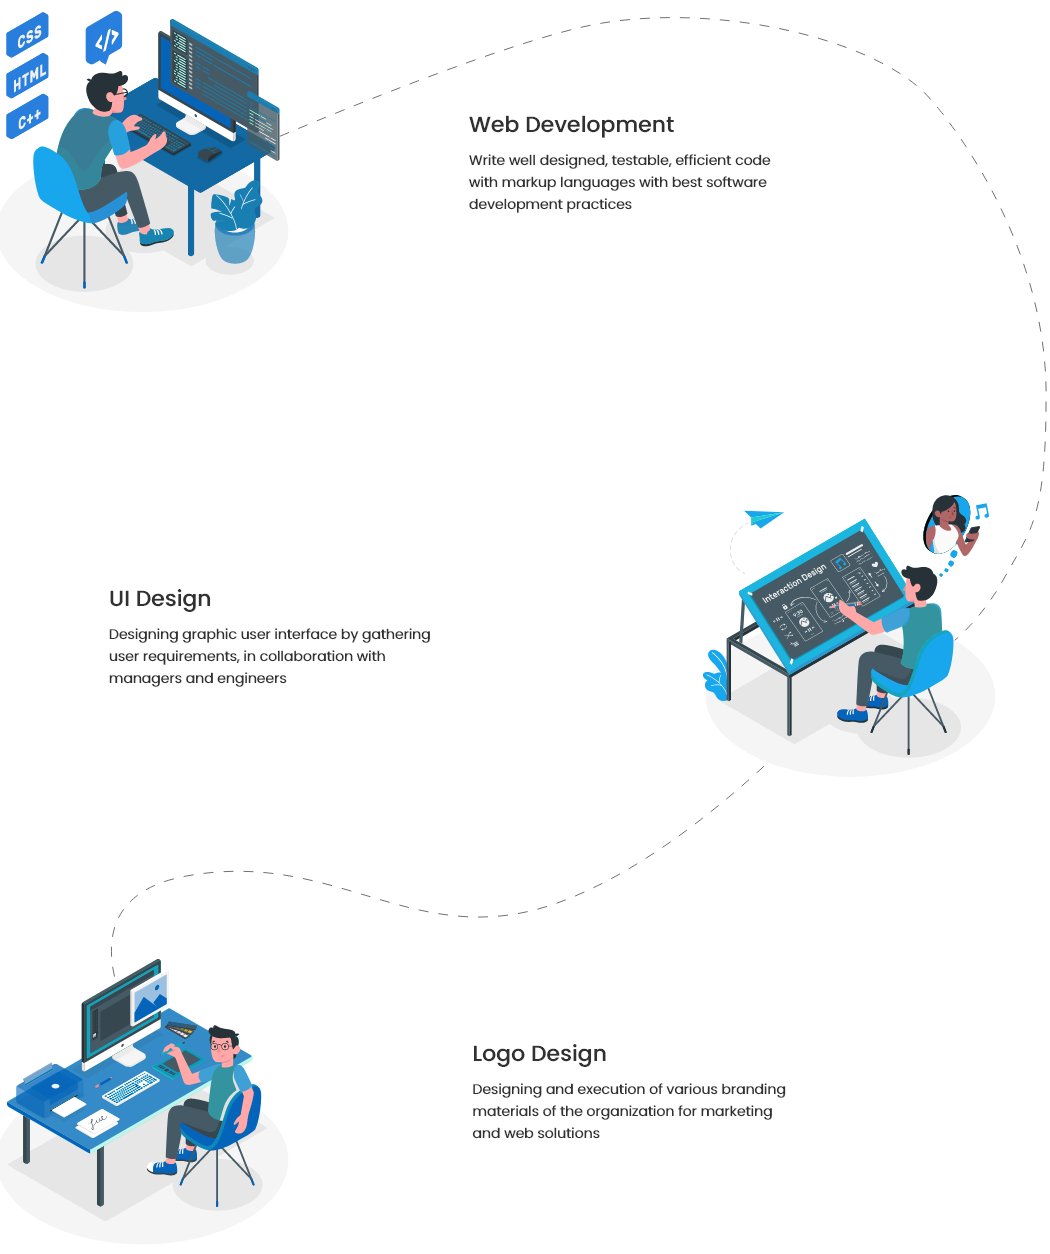
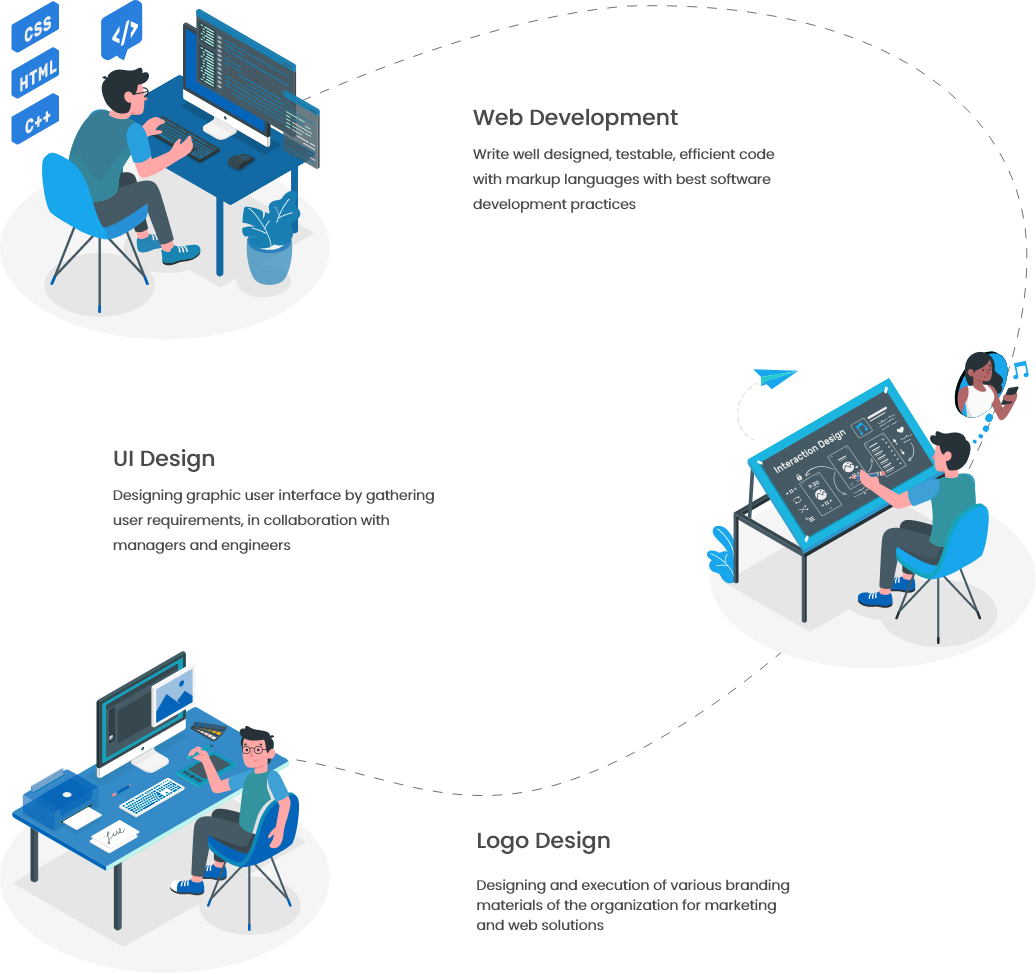
upgraded code

diff --git a/src/app/app.component.html b/src/app/app.component.html
@@ -1,6 +1,6 @@
 <nav id="navbar" class="mx-auto navbar navbar-expand-md navbar-dark bg-dark fixed-top">
   <!-- Navbar content -->
-  <a href="#about" class="navbar-brand">Hemanth Reddy</a>
+  <a href="#about" class="navbar-brand"><img src="../assets/logo.png"></a>
   <button type="button" class="navbar-toggler" data-toggle="collapse" data-target="#navbarCollapse">
       <span><img class="menu" src="../assets/menu2.png"></span>
   </button>
@@ -24,10 +24,10 @@
 <div id="about" class="container card aboutme">
     <div class="col-12">
         <div class="intro">
-            <h1 class="name text-center">Hemanth Reddy C R</h1>
-            <h3 class="designation text-center my-2">UI UX Developer</h3>
+            <h1 class="name text-center noselect">Hemanth Reddy C R</h1>
+            <h3 class="designation text-center my-2 noselect">UI UX Developer</h3>
     </div>
-        <p class="aboutMeContent my-3">I am an User Interface and User Experience Developer based on Benguluru. I am experienced in User Experience Designing, Graphic Designing, Web designing and Web Development.</p>
+        <p class="aboutMeContent my-3 noselect">I am an User Interface and User Experience Developer based on Benguluru. I am experienced in User Experience Designing, Graphic Designing, Web designing and Web Development.</p>
     </div>
 </div>
 <div class="col-xs-10 col-sm-10 col-md-5 col-lg-4 col-xl-4 mx-auto">
@@ -35,18 +35,57 @@
 </div>
 <!------------------------------ what I Do ---------------------------------->
 <p id="whatIDo" class="heading my-5 col-2 text-center mx-auto">What I Do</p>
-<div class="container card whatIDo">
-<img class="img-fluid img-responsive" src="../assets/whaticando.png">
+<div class="container">
+    <div class="row">
+            <div class="col-xs-12 col-sm-12 col-md-12 col-lg-2 col-xl-2 mx-auto">
+                <img class="img-responsive" src="../assets/development.png">
+            </div>
+            <div class="col-xs-12 col-sm-12 col-md-12 col-lg-6 col-xl-6">
+                <div class="card-body mx-auto">
+                    <div class="h4">Web Development</div>
+                     <h6 class="category noselect">Write well designed, testable, efficient code
+                        with markup languages with best software
+                        development practices</h6>
+                  </div>
+            </div>
+    </div>
+    <div class="row my-5">
+        <div class="col-xs-12 col-sm-12 col-md-12 col-lg-6 col-xl-6 mt-5 mx-auto">
+            <div class="card-body mx-auto">
+                <div class="h4">User Interface Design</div>
+                 <h6 class="category noselect">Designing graphic user interface by gathering
+                    user requirements, in collaboration with
+                    managers and engineers</h6>
+              </div>
+        </div>
+        <div class="col-xs-12 col-sm-12 col-md-12 col-lg-2 col-xl-2 mx-auto">
+            <img class="img-responsive" src="../assets/uidesign.png">
+        </div>
+    </div>
+    <div class="row">
+        <div class="col-xs-12 col-sm-12 col-md-12 col-lg-2 col-xl-2 mx-auto">
+            <img class="img-responsive" src="../assets/logodesign.png">
+        </div>
+        <div class="col-xs-12 col-sm-12 col-md-12 col-lg-6 col-xl-6">
+            <div class="card-body mx-auto">
+                <div class="h4">Logo Design</div>
+                 <h6 class="category noselect">Designing and execution of various branding
+                    materials of the organization for marketing
+                    and web solutions
+                    </h6>
+              </div>
+        </div>
+</div>
 </div>
 
 <!------------------------------ work Experience  ---------------------------------->
-<p id="experience" class="heading text-center my-5 col-3 mx-auto">Work Experience</p>
+<p id="experience" class="heading text-center my-5 col-2 mx-auto">Experience</p>
 <div class="work-card col-12 mt-5">
   <div class="row">
     <div class="col-md-3 work-box">
       <div class="card-body cc-education-header my-4" offset="20" animateOnScroll animationName="animated slideDown">
-        <p class="work-period">January 2015 - Present</p>
-        <div class="work-role h5">UI UX Developer</div>
+        <p class="work-period noselect">January 2015 - Present</p>
+        <div class="work-role h5 noselect">UI UX Developer</div>
       </div>
     </div>
     <div class="col-md-9">
@@ -54,9 +93,9 @@
         <div class="h5">OJAS Innovative Technologies Pvt Ltd</div>
          <h6 class="category">Hyderabad</h6>
          <ul class="my-auto">
-          <li class="edu-text pt-1"> Ojas is a Cost Effective IT Services Company with 8 years of Industry experience </li>
-          <li class="edu-text pt-1"><b>Web Design, Web Development and Graphic Design</b>.</li>
-          <li class="edu-text pt-1">Won the <b>Best Employee Award</b> for the year 2020.</li>
+          <li class="edu-text pt-1 noselect"> Ojas is a Cost Effective IT Services Company with 8 years of Industry experience </li>
+          <li class="edu-text pt-1 noselect"><b>Web Design, Web Development and Graphic Design</b>.</li>
+          <li class="edu-text pt-1 noselect">Won the <b>Best Employee Award</b> for the year 2020.</li>
        </ul>
       </div>
     </div>
@@ -64,11 +103,42 @@
 </div>
 <!-- -------------------------------- Education --------------------------------->
 <p id="education" class="heading my-5 col-2 text-center mx-auto">Education</p>
-<div class="container card">
-<img class="img-fluid img-responsive" src="../assets/education.png">
+<div class="container">
+    <div class="row">
+            <div class="col-xs-12 col-sm-12 col-md-3 col-lg-2 col-xl-2 mx-auto">
+                <img class="img-fluid img-responsive" src="../assets/boy.png">
+            </div>
+            <div class="col-xs-12 col-sm-12 col-md-5 col-lg-6 col-xl-6">
+                <div class="card-body">
+                    <div class="h5">Ravindra Bharathi School</div>
+                     <h6 class="category">Punganuru</h6>
+                     <ul class="my-auto">
+                      <li class="edu-text pt-2 noselect">Ravindra Bharathi is an Educationist's dream that has taken the shape of reality</li>
+                      <li class="edu-text pt-2 noselect">Scored <b>9.3 CGPA</b> during the year 2012-13.</li>
+                      <li class="edu-text pt-2 noselect">Elected as <b>School Pupil Leader</b> for the year 2012-13.</li>
+                   </ul>
+                  </div>
+            </div>
+    </div>
+    <div class="row my-5">
+        <div class="col-xs-12 col-sm-12 col-md-5 col-lg-6 col-xl-6 mt-5">
+            <div class="card-body">
+                <div class="h5">Madanapalli Institute of Technology & Science</div>
+                 <h6 class="category">Madanapalli</h6>
+                 <ul class="my-auto">
+                  <li class="edu-text pt-2 noselect">MITS is awarded as the best Private Engineering college by ISTE 2016-17 </li>
+                  <li class="edu-text pt-2 noselect">Maintained <b>7.8 CGPA</b> during year 2015-19.</li>
+                  <li class="edu-text pt-2 noselect">Awarded <b>SportsMen of the Year</b> for 2017-18.</li>
+               </ul>
+              </div>
+        </div>
+        <div class="col-xs-12 col-sm-12 col-md-3 col-lg-2 col-xl-2 mx-auto">
+            <img class="img-responsive" src="../assets/student.png">
+        </div>
+</div>
 </div>
 <!------------------------------ technical skills ---------------------------------->
-<p id="skills" class="heading text-center mt-5 col-3 mx-auto">Technical Skills</p>
+<p id="skills" class="heading text-center mt-5 col-2 mx-auto">Skills</p>
 <div class="container card">
         <div class="col-xs-12 col-sm-12 col-md-10 col-lg-9 col-xl-8 mx-auto">
             <div class="skills" data-percent="95%">
@@ -130,13 +200,16 @@
                
                 <div class="carousel-inner">
                     <div class="carousel-item active">
-                        <img class="d-block img-responsive img-fluid" src="../assets/wd1.png" alt="First slide">
+                        <img class="d-block img-responsive img-fluid" src="../assets/chats.png" alt="First slide">
                     </div>
                     <div class="carousel-item">
-                        <img class="d-block img-responsive img-fluid" src="../assets/wd2.png" alt="Second slide">
+                        <img class="d-block img-responsive img-fluid" src="../assets/wd1.png" alt="second slide">
                     </div>
                     <div class="carousel-item">
-                        <img class="d-block img-responsive img-fluid" src="../assets/wd3.png" alt="Third slide">
+                        <img class="d-block img-responsive img-fluid" src="../assets/wd2.png" alt="Third slide">
+                    </div>
+                    <div class="carousel-item">
+                        <img class="d-block img-responsive img-fluid" src="../assets/wd3.png" alt="Fourth slide">
                     </div>
                 </div>
             </div>
@@ -211,37 +284,49 @@
 <!-- -------------------------------- client Review ------------------------- -->
 <p id="projects" class="heading col-2 text-center my-5 mx-auto">Projects</p>
 <div class="row">
-  <div class="project-card card col-xs-12 col-sm-12 col-md-6 col-lg-6 col-xl-6 mx-auto" style="width: 18rem;">
+  <div class="project-card card col-xs-12 col-sm-12 col-md-6 col-lg-6 col-xl-6 mx-auto">
     <div class="card-body">
-      <h5 class="card-title">Hemanth Portfolio</h5>
-      <h6 class="card-subtitle mb-2 text-muted">Resume website</h6>
-      <p class="card-text">Online resume website says a Hiring Manager that you are familiar with current web trends</p>
+      <h5 class="card-title noselect">Hemanth Portfolio</h5>
+      <h6 class="card-subtitle mb-2 text-muted noselect">Resume website</h6>
+      <div>
+        <img class="img-responsive img-fluid project-img" src="../assets/portfolio.png">
+    </div>
+      <p class="card-text pt-3 noselect">Online resume website says a Hiring Manager that you are familiar with current web trends</p>
       <a target="_blank" href="https://www.behance.net/gallery/93750799/Resume-Website-Design-for-UI-UX-Designers?tracking_source=project_owner_other_projects" class="project-link">Go to Project</a>
     </div>
   </div>
-  <div class="project-card card col-xs-12 col-sm-12 col-md-6 col-lg-6 col-xl-6 mx-auto" style="width: 18rem;">
+  <div class="project-card card col-xs-12 col-sm-12 col-md-6 col-lg-6 col-xl-6 mx-auto">
     <div class="card-body">
-      <h5 class="card-title">FlyGOA</h5>
-      <h6 class="card-subtitle mb-2 text-muted">Customized Travel Planner</h6>
-      <p class="card-text">FlyGOA helps tourist in designing customized vacation plan round the globe</p>
+      <h5 class="card-title noselect">FlyGOA</h5>
+      <h6 class="card-subtitle mb-2 text-muted noselect">Customized Travel Planner</h6>
+      <div>
+        <img class="img-responsive img-fluid project-img" src="../assets/flygoa.png">
+    </div>
+      <p class="card-text pt-3 noselect">FlyGOA helps tourist in designing customized vacation plan round the globe</p>
       <a href="https://www.behance.net/gallery/98638633/FlyGOA-The-Custom-Tailored-Travel-Planner" target="_blank">Go to Project</a>
     </div>
   </div>
 </div>
 <div class="row">
-  <div class="card project-card col-xs-12 col-sm-12 col-md-6 col-lg-6 col-xl-6 mx-auto" style="width: 18rem;">
+  <div class="card project-card col-xs-12 col-sm-12 col-md-6 col-lg-6 col-xl-6 mx-auto">
     <div class="card-body">
-      <h5 class="card-title">DineMore</h5>
-      <h6 class="card-subtitle mb-2 text-muted">Online Food Order</h6>
-      <p class="card-text">Dinemore, originated in bangalore are the largest supplier of food for any events.</p>
+      <h5 class="card-title noselect">DineMore</h5>
+      <h6 class="card-subtitle mb-2 text-muted noselect">Online Food Order</h6>
+      <div>
+        <img class="img-responsive img-fluid project-img" src="../assets/restaurant.png">
+    </div>
+      <p class="card-text pt-3 noselect">Dinemore, originated in bangalore are the largest supplier of food for any events.</p>
       <a href="#">Go to Project</a>
     </div>
   </div>
-  <div class="card project-card col-xs-12 col-sm-12 col-md-6 col-lg-6 col-xl-6 mx-auto" style="width: 18rem;">
+  <div class="card project-card col-xs-12 col-sm-12 col-md-6 col-lg-6 col-xl-6 mx-auto">
     <div class="card-body">
-      <h5 class="card-title">Vcredit</h5>
-      <h6 class="card-subtitle mb-2 text-muted">Instant Loan Application for Students</h6>
-      <p class="card-text">Vcredit is an Instant Personal Loan Application Platform for Students</p>
+      <h5 class="card-title noselect">Vcredit</h5>
+      <h6 class="card-subtitle mb-2 text-muted noselect">Instant Loan Application for Students</h6>
+      <div>
+        <img class="img-responsive img-fluid project-img" src="../assets/vcredit.png">
+    </div>
+      <p class="card-text pt-3 noselect">Vcredit is an Instant Personal Loan Application Platform for Students</p>
       <a href="https://www.behance.net/gallery/96746841/Vcredit-instant-personal-loan-mobile-application?tracking_source=project_owner_other_projects" target="_blank">Go to Project</a>
     </div>
   </div>

diff --git a/src/styles.css b/src/styles.css
@@ -252,14 +252,20 @@ button:focus {
 .card-text, h4, li{
     color:#4b4b4b;
 }
-.card-text{
-    font-size: 14px;
+.card-text, .category{
+    max-width:478px;
+    font-size: 15px;
+    line-height: 25px;
 }
 .edu-text, .work-period {
-    font-size:14px;
+    font-size:15px;
 }
 .work-role{
     color: white;
+}
+.project-img:hover{
+    -webkit-transform: scale(1);
+    transform: scale(1);
 }
 @media screen and (max-width: 2560px) {
     div.landing{
@@ -348,7 +354,7 @@ button:focus {
     font-weight: bold;
 }
 .contactText{
-    font-size: 14px;
+    font-size: 15px;
     font-family: 'Poppins';
     font-weight: large;
     color: #4b4b4b;
@@ -360,9 +366,13 @@ html::-webkit-scrollbar {
     height:120px;
     width:120px;
 }
-.animated {
-    visibility: visible !important;
-}
-.hide-on-init {
-    visibility: hidden;
-}
+
+.noselect {
+    -webkit-touch-callout: none; /* iOS Safari */
+      -webkit-user-select: none; /* Safari */
+       -khtml-user-select: none; /* Konqueror HTML */
+         -moz-user-select: none; /* Old versions of Firefox */
+          -ms-user-select: none; /* Internet Explorer/Edge */
+              user-select: none; /* Non-prefixed version, currently
+                                    supported by Chrome, Edge, Opera and Firefox */
+  }
